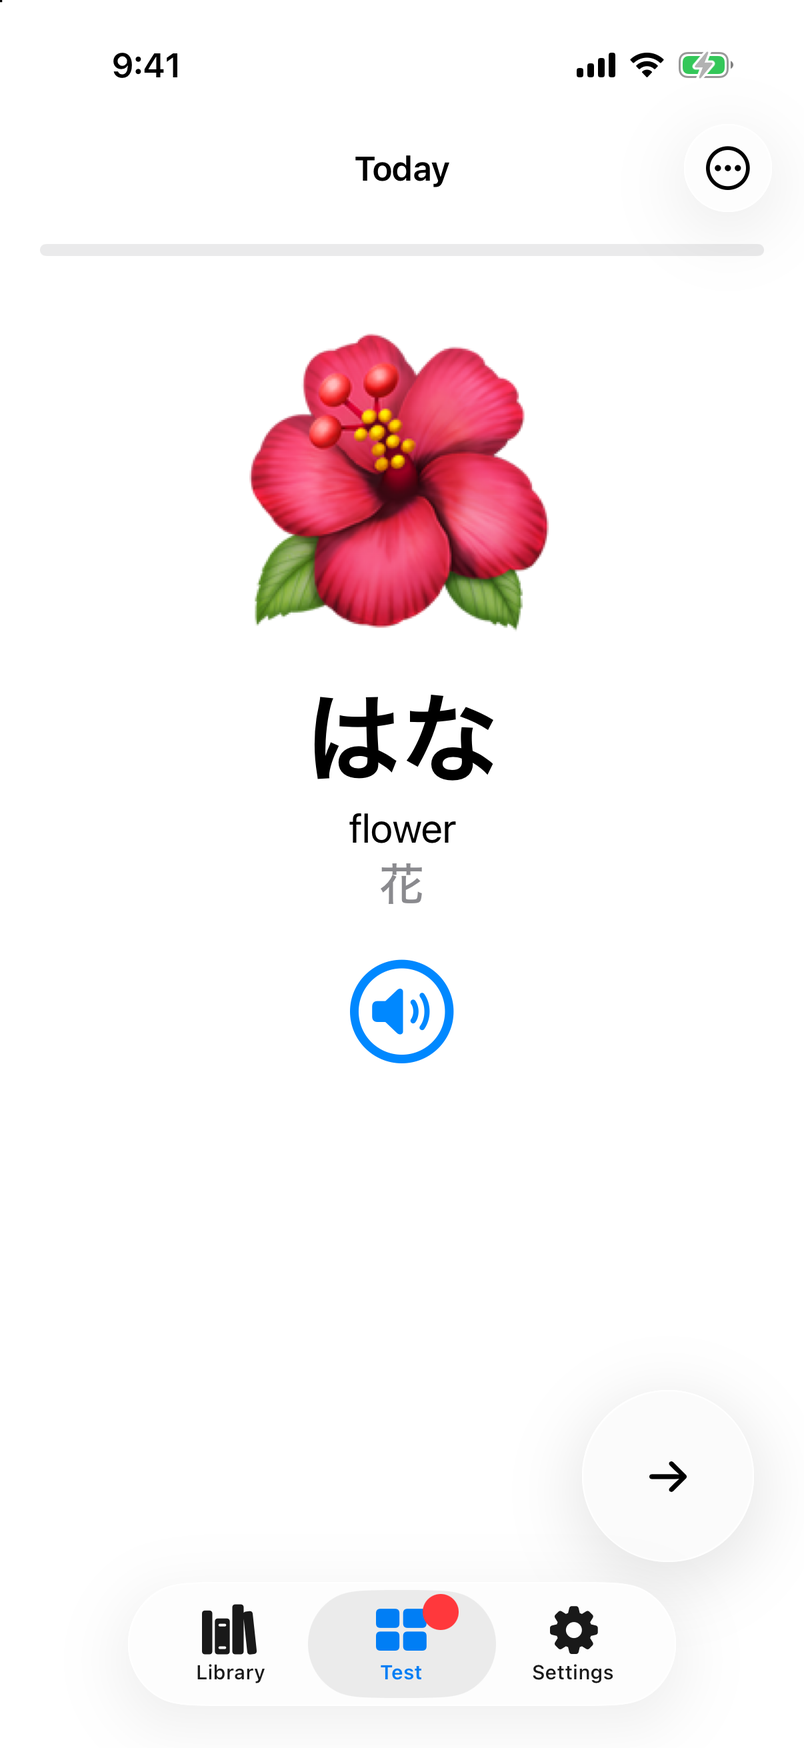
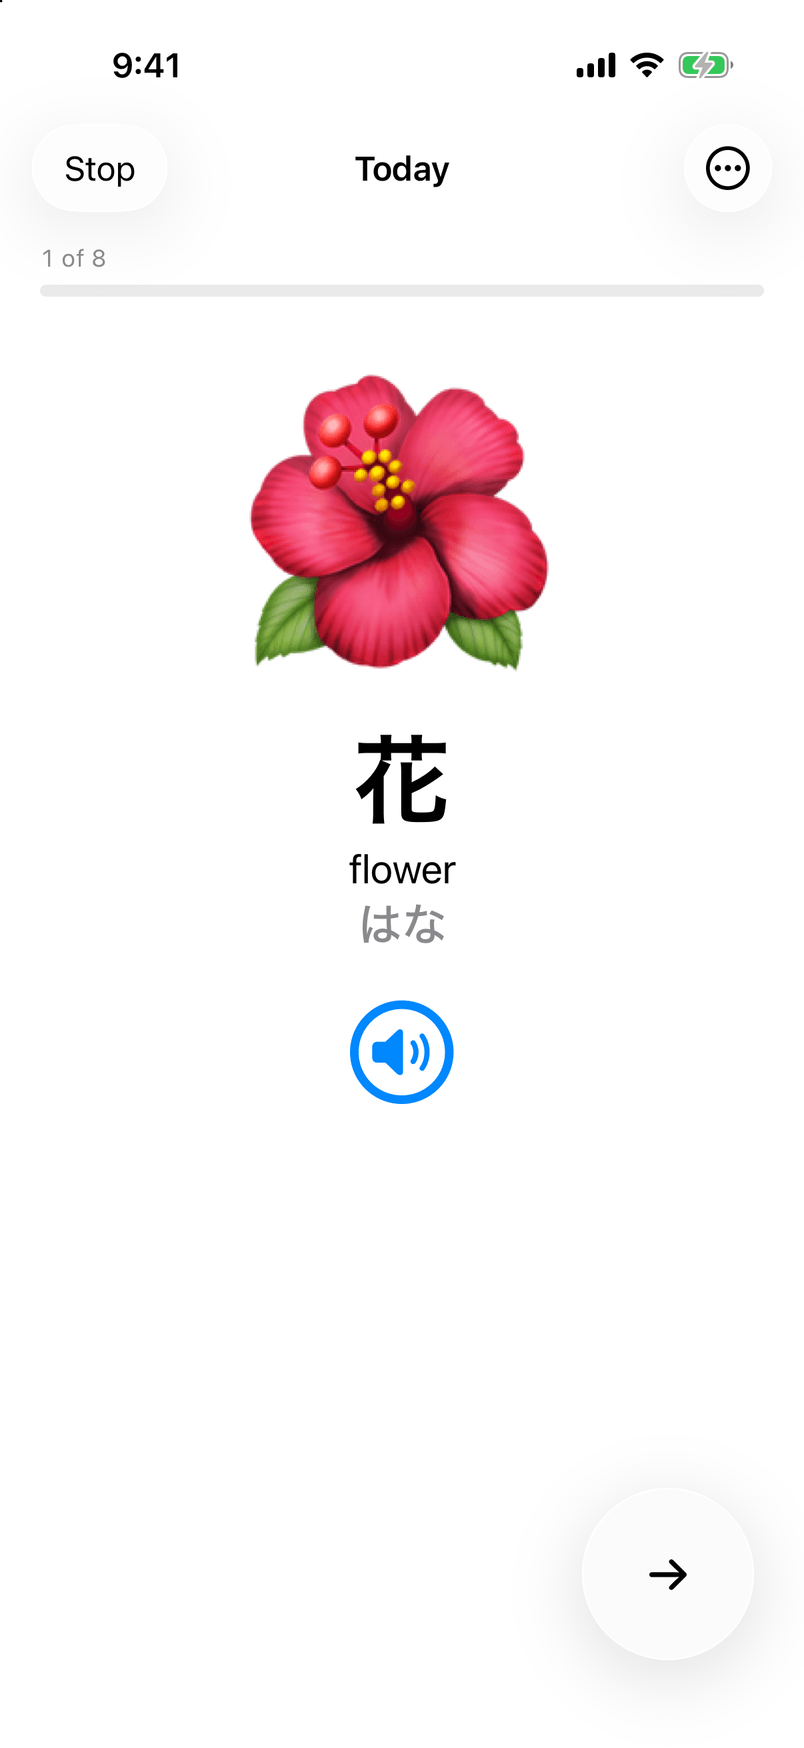
feat(japanese2k): show the redesigned app in the study card and daily round screenshots
Replace the two page screenshots with the build 21 captures (Today, Library and Settings tabs, kanji-first cards), resized to 804x1748 and palette-compressed to 65 and 85 KB. Alt text now names the kanji as the headline and the kana as the reading. Mobile visual baselines re-recorded.

diff --git a/japanese2k/index.html b/japanese2k/index.html
@@ -42,7 +42,7 @@ page_stylesheet: /japanese2k.css
         <figure class="jp2k-screen">
           <img
             src="/assets/japanese2k-study-card.png"
-            alt="Study card for いぬ: a dog picture, the English meaning dog, and the kanji 犬."
+            alt="Study card for 犬: a dog picture, the English meaning dog, and the reading いぬ."
             width="804"
             height="1748"
             fetchpriority="high"
@@ -75,7 +75,7 @@ page_stylesheet: /japanese2k.css
         <figure class="jp2k-screen">
           <img
             src="/assets/japanese2k-daily-round.png"
-            alt="Today's round introduces はな with a flower picture, the English meaning flower, and the kanji 花."
+            alt="Today's round introduces 花 with a flower picture, the English meaning flower, and the reading はな."
             width="804"
             height="1748"
             loading="lazy"

diff --git a/CHANGELOG.md b/CHANGELOG.md
@@ -30,6 +30,7 @@ The format follows [Keep a Changelog](https://keepachangelog.com/en/1.1.0/).
 
 ### Changed
 
+- The two screenshots on `/japanese2k` come from the redesigned app (Today, Library and Settings tabs, kanji-first cards) captured on iPhone 17 Pro / iOS 26.5 for the build 21 listing. Their alt text names the kanji as the headline and the kana as the reading. The images are 804 by 1748 pixels and 65 to 85 KB. The mobile visual references are re-recorded.
 - The Learn Japanese pages describe the audio-first build: every word is practiced by ear in frequency order with spaced review, and a picture appears only where it shows the meaning (about a third of the list). The page names Today's free practice, the Library's listen-through, and the adjustable new-words-per-day setting in place of the old Test menu and Play all. The `apps.yml` tagline, support page, JP 2K privacy policy and company privacy policy match, and both privacy policies are dated October 15, 2026.
 - `/japanese2k/icons.json` is version 20 and holds word data only: the Japanese form, reading and English meaning of all 2,000 words in frequency order, generated from the app's compiled catalog. `validate-japanese2k.mjs` checks that it lists 2,000 words.
 - The visual suite is deterministic under load. Each capture waits for web fonts and two animation frames, the visual specs freeze animations and transitions, and `npm run test:visual` runs one worker. Every Playwright run serves the site on its own free port (pin one with `SITE_PORT`), so parallel runs no longer collide on port 8788.
